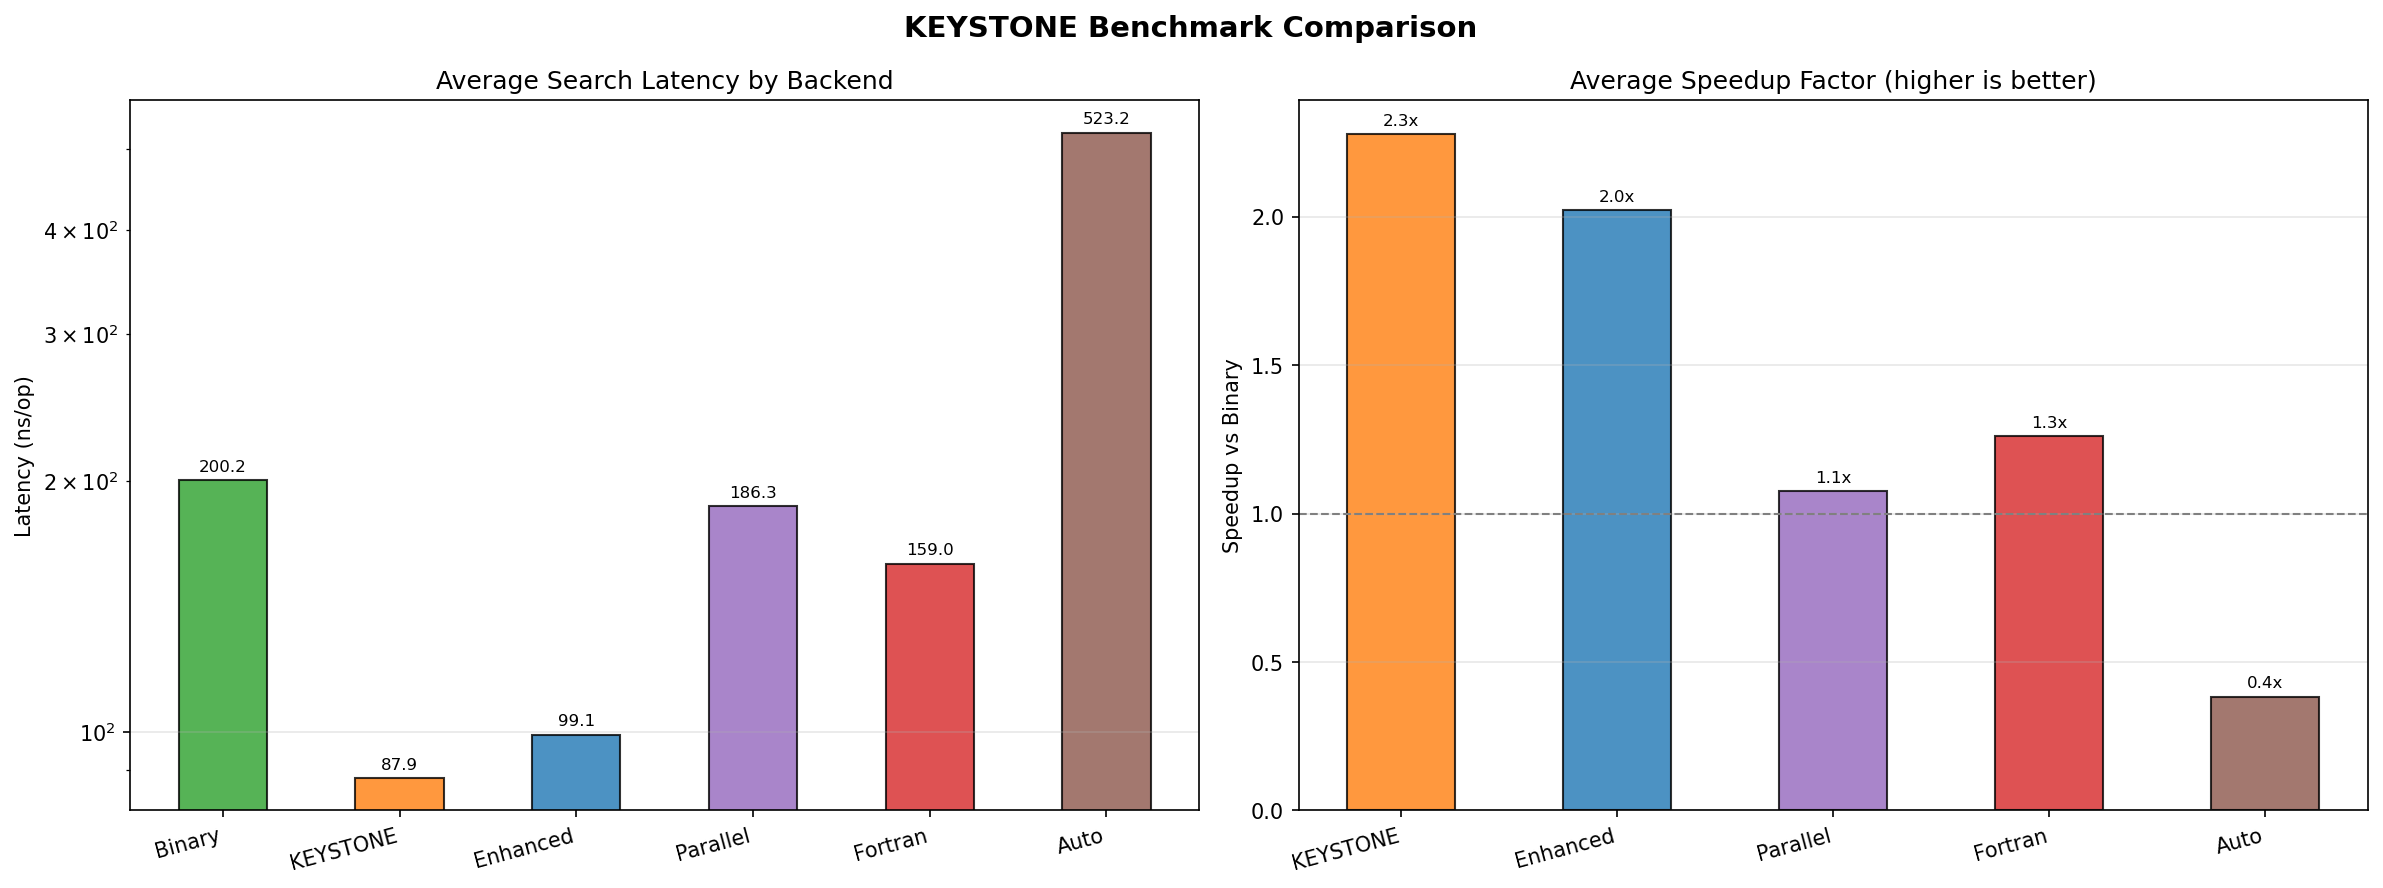
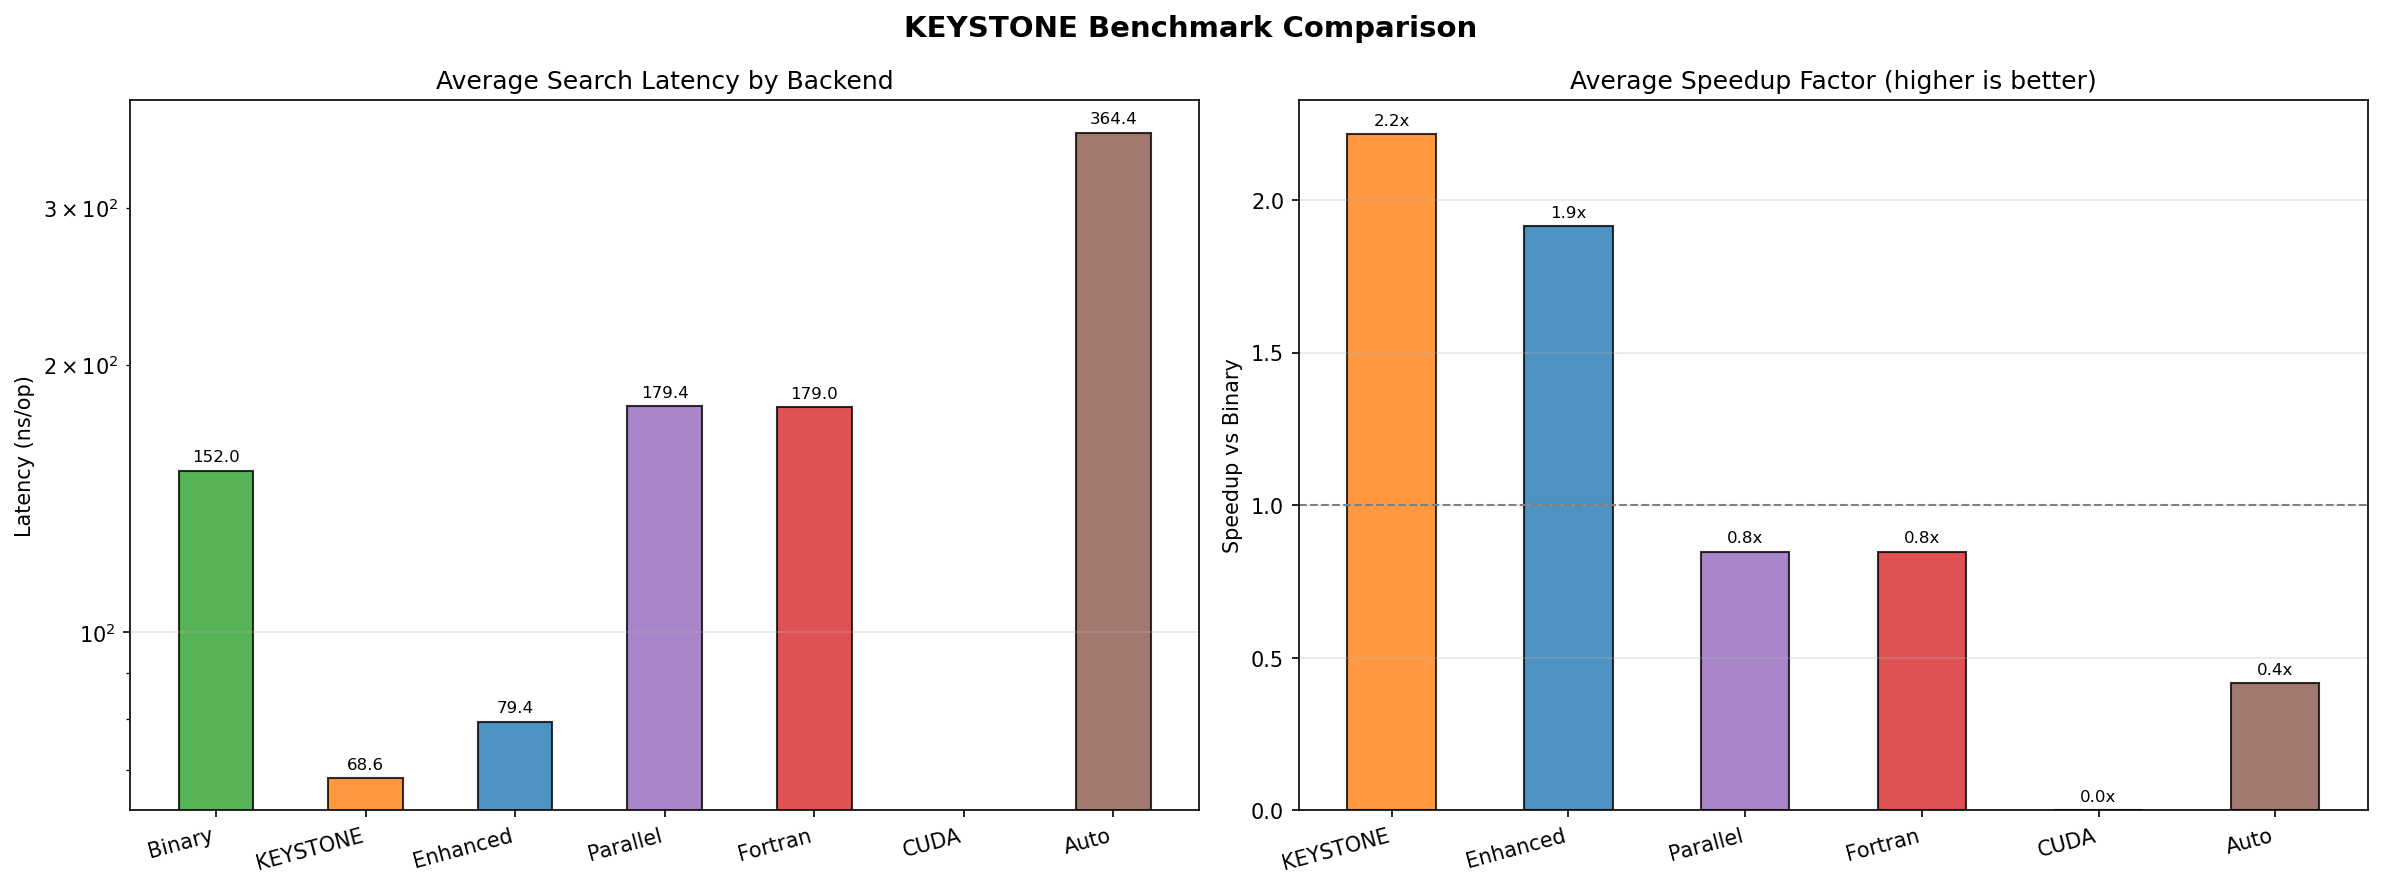
Integrate CUDA backend into benchmark suite and generate updated performance charts

diff --git a/scripts/compare_search.c b/scripts/compare_search.c
@@ -285,6 +285,11 @@ int main(void) {
     const double data_gib = bytes_to_gib(data_bytes);
     const double total_buffer_gib = bytes_to_gib(total_buffer_bytes);
 
+    int cuda_available = 0;
+#ifdef KEYSTONE_ENABLE_CUDA
+    cuda_available = 1;
+#endif
+
     for (size_t warmup = 0; warmup < warmup_runs; ++warmup) {
         if (run_warmup_pass(
                 data,
@@ -333,7 +338,7 @@ int main(void) {
            total_buffer_gib);
     printf("#effective_data_gib_s=dataset_gib/(backend_ns_per_key*queries);proxy_not_raw_dram_bandwidth\n");
     printf("#auto_backend_bench=%d\n", KEYSTONE_BENCH_AUTO ? 1 : 0);
-    printf("#run,binary_ns,keystone_ns,enhanced_ns,batch_parallel_ns,fortran_batch_ns,auto_batch_ns,fortran_available,auto_backend_bench,auto_decision_available,auto_backend,auto_decision_source,auto_query_shape,auto_cpu_features,auto_array_bucket,auto_query_bucket,auto_thread_count,auto_estimated_ns_per_key,auto_p95_ns_per_key,auto_calibration_runs,auto_candidates_measured,data_alloc_ms,data_init_ms,query_alloc_ms,query_init_ms,setup_total_ms,data_bytes,query_bytes,batch_bytes,total_buffer_bytes,data_gib,total_buffer_gib,binary_effective_gib_s,keystone_effective_gib_s,enhanced_effective_gib_s,batch_parallel_effective_gib_s,fortran_effective_gib_s,auto_effective_gib_s,bench_mode,warmup_runs\n");
+    printf("#run,binary_ns,keystone_ns,enhanced_ns,batch_parallel_ns,fortran_batch_ns,cuda_batch_ns,auto_batch_ns,fortran_available,cuda_available,auto_backend_bench,auto_decision_available,auto_backend,auto_decision_source,auto_query_shape,auto_cpu_features,auto_array_bucket,auto_query_bucket,auto_thread_count,auto_estimated_ns_per_key,auto_p95_ns_per_key,auto_calibration_runs,auto_candidates_measured,data_alloc_ms,data_init_ms,query_alloc_ms,query_init_ms,setup_total_ms,data_bytes,query_bytes,batch_bytes,total_buffer_bytes,data_gib,total_buffer_gib,binary_effective_gib_s,keystone_effective_gib_s,enhanced_effective_gib_s,batch_parallel_effective_gib_s,fortran_effective_gib_s,cuda_effective_gib_s,auto_effective_gib_s,bench_mode,warmup_runs\n");
     for (size_t run = 1; run <= runs; ++run) {
         uint64_t start, end;
         start = now_ns();
@@ -404,6 +409,19 @@ int main(void) {
         }
 
         double auto_avg = 0.0;
+        double cuda_avg = 0.0;
+
+#ifdef KEYSTONE_ENABLE_CUDA
+        start = now_ns();
+        fill_batch(batch, queries, num_queries);
+        found = keystone_search_batch_cuda(data, n, batch, num_queries);
+        end = now_ns();
+        if (found != expected_found) {
+            fprintf(stderr, "CUDA batch found %zu queries; expected %zu\n", found, expected_found);
+            return 1;
+        }
+        cuda_avg = (double)(end - start) / num_queries;
+#endif
         int auto_decision_available = 0;
         const char* auto_backend = "disabled";
         const char* auto_decision_source = "disabled";
@@ -462,18 +480,22 @@ int main(void) {
             effective_data_gib_s(parallel_avg, num_queries, data_bytes);
         const double fortran_effective_gib_s =
             effective_data_gib_s(fortran_avg, num_queries, data_bytes);
+        const double cuda_effective_gib_s =
+            effective_data_gib_s(cuda_avg, num_queries, data_bytes);
         const double auto_effective_gib_s =
             effective_data_gib_s(auto_avg, num_queries, data_bytes);
 
-        printf("%zu,%.2f,%.2f,%.2f,%.2f,%.2f,%.2f,%d,%d,%d,%s,%s,%s,%u,%zu,%zu,%d,%.2f,%.2f,%zu,%zu,%.3f,%.3f,%.3f,%.3f,%.3f,%zu,%zu,%zu,%zu,%.6f,%.6f,%.3f,%.3f,%.3f,%.3f,%.3f,%.3f,%s,%zu\n",
+        printf("%zu,%.2f,%.2f,%.2f,%.2f,%.2f,%.2f,%.2f,%d,%d,%d,%d,%s,%s,%s,%u,%zu,%zu,%d,%.2f,%.2f,%zu,%zu,%.3f,%.3f,%.3f,%.3f,%.3f,%zu,%zu,%zu,%zu,%.6f,%.6f,%.3f,%.3f,%.3f,%.3f,%.3f,%.3f,%.3f,%s,%zu\n",
                run,
                binary_avg,
                classic_avg,
                enhanced_avg,
                parallel_avg,
                fortran_avg,
+               cuda_avg,
                auto_avg,
                fortran_available,
+               cuda_available,
                KEYSTONE_BENCH_AUTO ? 1 : 0,
                auto_decision_available,
                auto_backend,
@@ -503,6 +525,7 @@ int main(void) {
                enhanced_effective_gib_s,
                parallel_effective_gib_s,
                fortran_effective_gib_s,
+               cuda_effective_gib_s,
                auto_effective_gib_s,
                bench_mode,
                warmup_runs);

diff --git a/scripts/generate_benchmark_chart.py b/scripts/generate_benchmark_chart.py
@@ -47,9 +47,9 @@ def main():
 
     fig, (ax1, ax2) = plt.subplots(1, 2, figsize=(16, 6))
 
-    labels = ['Binary', 'KEYSTONE', 'Enhanced', 'Parallel', 'Fortran', 'Auto']
-    keys = ['binary_ns', 'keystone_ns', 'enhanced_ns', 'batch_parallel_ns', 'fortran_batch_ns', 'auto_batch_ns']
-    colors = ['#2ca02c', '#ff7f0e', '#1f77b4', '#9467bd', '#d62728', '#8c564b']
+    labels = ['Binary', 'KEYSTONE', 'Enhanced', 'Parallel', 'Fortran', 'CUDA', 'Auto']
+    keys = ['binary_ns', 'keystone_ns', 'enhanced_ns', 'batch_parallel_ns', 'fortran_batch_ns', 'cuda_batch_ns', 'auto_batch_ns']
+    colors = ['#2ca02c', '#ff7f0e', '#1f77b4', '#9467bd', '#d62728', '#17becf', '#8c564b']
 
     # Aggregate across all profiles into single averages
     avgs = {}
@@ -83,8 +83,8 @@ def main():
                     xytext=(0, 3), textcoords="offset points",
                     ha='center', va='bottom', fontsize=8)
 
-    speed_labels = ['KEYSTONE', 'Enhanced', 'Parallel', 'Fortran', 'Auto']
-    speed_keys = ['keystone_ns', 'enhanced_ns', 'batch_parallel_ns', 'fortran_batch_ns', 'auto_batch_ns']
+    speed_labels = ['KEYSTONE', 'Enhanced', 'Parallel', 'Fortran', 'CUDA', 'Auto']
+    speed_keys = ['keystone_ns', 'enhanced_ns', 'batch_parallel_ns', 'fortran_batch_ns', 'cuda_batch_ns', 'auto_batch_ns']
     x2 = np.arange(len(speed_labels))
     speed_vals = [speedups.get(k, 0) for k in speed_keys]
     bars2 = ax2.bar(x2, speed_vals, width, color=colors[1:], alpha=0.8, edgecolor='black')

diff --git a/cuda/keystone_cuda.h b/cuda/keystone_cuda.h
@@ -1,0 +1,34 @@
+#ifndef KEYSTONE_CUDA_H
+#define KEYSTONE_CUDA_H
+
+#include "../include/keystone.h"
+
+#ifdef __cplusplus
+extern "C" {
+#endif
+
+/**
+ * Perform a batch search using CUDA.
+ * 
+ * This is a standalone proof-of-concept backend that allocates
+ * memory on the GPU, copies the array and batch items, performs
+ * binary search in parallel, and copies the results back.
+ * 
+ * @param arr Pointer to the sorted array.
+ * @param n Size of the array.
+ * @param items Array of batch items to search for.
+ * @param num_items Number of items in the batch.
+ * @return Number of successful searches.
+ */
+size_t keystone_search_batch_cuda(
+    const int64_t* arr,
+    size_t n,
+    keystone_batch_item_t* items,
+    size_t num_items
+);
+
+#ifdef __cplusplus
+}
+#endif
+
+#endif // KEYSTONE_CUDA_H

diff --git a/include/keystone.h b/include/keystone.h
@@ -269,6 +269,15 @@ size_t keystone_search_batch_fortran(
     size_t num_items
 );
 
+#ifdef KEYSTONE_ENABLE_CUDA
+size_t keystone_search_batch_cuda(
+    const int64_t* arr,
+    size_t n,
+    keystone_batch_item_t* items,
+    size_t num_items
+);
+#endif
+
 size_t keystone_search_batch_c_optimized(
     const int64_t* arr,
     size_t n,
